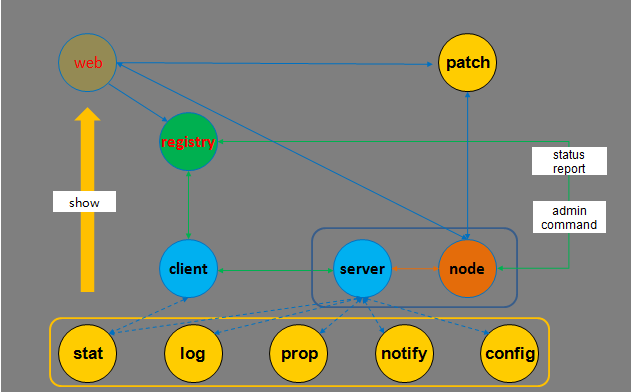
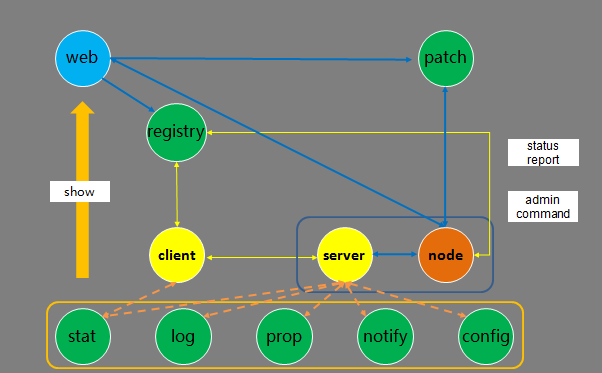
fix doc

diff --git a/Introduction.md b/Introduction.md
@@ -6,22 +6,17 @@
 
 # 1. 介绍 <a id="main-chapter-1"></a>
 
-Tars这个名字取自于电影"星际穿越"中的机器人，寓意着智慧与未来，它是基于名字服务使用Tars协议的高性能RPC开发框架，配套一体化的运营管理平台，并通过伸缩调度，实现运维半托管服务。
+Tars是基于名字服务使用Tars协议的高性能RPC开发框架，同时配套一体化的服务治理平台，帮助个人或者企业快速的以微服务的方式构建自己稳定可靠的分布式应用。
 
-Tars是腾讯从2008年到今天一直在使用的后台逻辑层的统一应用框架TAF（Total Application Framework），目前支持C++和Java两种语言。该框架为用户提供了涉及到开发、运维、以及测试的一整套解决方案，帮助一个产品或者服务快速开发、部署、测试、上线。
-它集可扩展协议编解码、高性能RPC通信框架、名字路由与发现、发布监控、日志统计、配置管理等于一体，通过它可以快速用微服务的方式构建自己的稳定可靠的分布式应用，并实现完整有效的服务治理。
+Tars是将腾讯内部使用的微服务架构TAF（Total Application Framework）多年的实践成果总结而成的开源项目。Tars这个名字来自星际穿越电影人机器人Tars，
+电影中Tars有着非常友好的交互方式，任何初次接触它的人都可以轻松的和它进行交流，同时能在外太空、外星等复杂地形上，超预期的高效率的完成托付的所有任务。
+拥有着类似设计理念的Tars也是一个兼顾易用性、高性能、服务治理的框架，目的是让开发更简单，聚焦业务逻辑，让运营更高效，一切尽在掌握。
 
-目前该框架在腾讯内部，各大核心业务都在使用，颇受欢迎，基于该框架部署运行的服务节点规模达到上万个。
+目前该框架在腾讯内部，有100多个业务、1.6多万台服务器上运行使用。
 
-Tars开源的目的：
+# 2. 设计思想 <a id="main-chapter-2"></a>
 
-1.帮助企业或者用户快速以微服务的方式构造自己的分布式应用；
-
-2.希望更多的开发者参与进来，共建Tars框架，互利共赢；
-
-# 2. 设计思路 <a id="main-chapter-2"></a>
-
-以开发与运营之间DO分离的原则，采用分层的思想，将各个层次之间相互解耦或者松耦合。
+Tars的设计思路是采用微服务的思想对服务进行治理，同时对整个系统的各个模块进行抽象分层，将各个层次之间相互解耦或者松耦合，如下图：
 
 ![tars](docs/images/tars.png)
 
